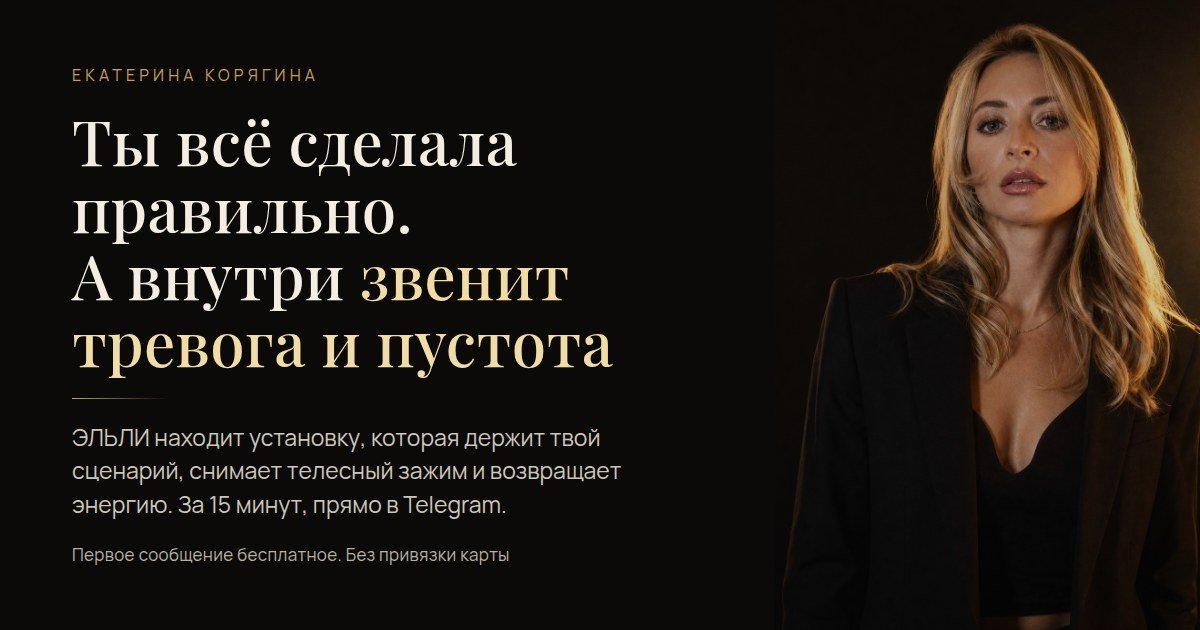
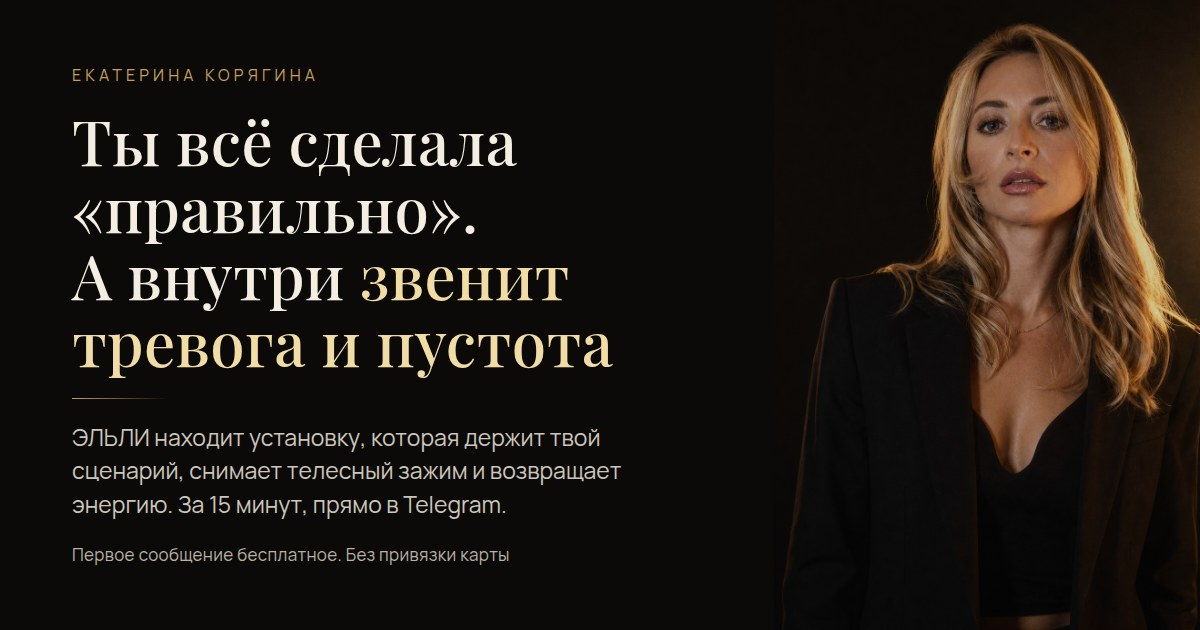
Слово правильно в кавычках

Changed region(s): [[0.0617, 0.3016, 0.4008, 0.3921]]

diff --git a/index.html b/index.html
@@ -418,7 +418,7 @@ footer{padding:66px 0 52px;border-top:1px solid rgba(255,255,255,.07);color:var(
   <div class="wrap hero-grid">
     <div>
       <p class="kicker">Екатерина Корягина · квантовый психотерапевт</p>
-      <h1>Ты всё сделала правильно.<br>А внутри звенит тревога и пустота.</h1>
+      <h1>Ты всё сделала «правильно».<br>А внутри звенит тревога и пустота.</h1>
       <p class="lead">Знакомое напряжение, которое не объяснить. ЭЛЬЛИ это твой карманный AI тренажёр для подсознания прямо в Telegram. Она находит установку, которая держит твой сценарий, снимает телесный зажим и возвращает тебе энергию, которую ты годами сливала на подавление страха. За 15 минут.</p>
       <div class="cta-row">
         <a class="btn" href="https://t.me/ai_coachs_bot?start=stat" target="_blank" rel="noopener">Открыть Эльли</a>
